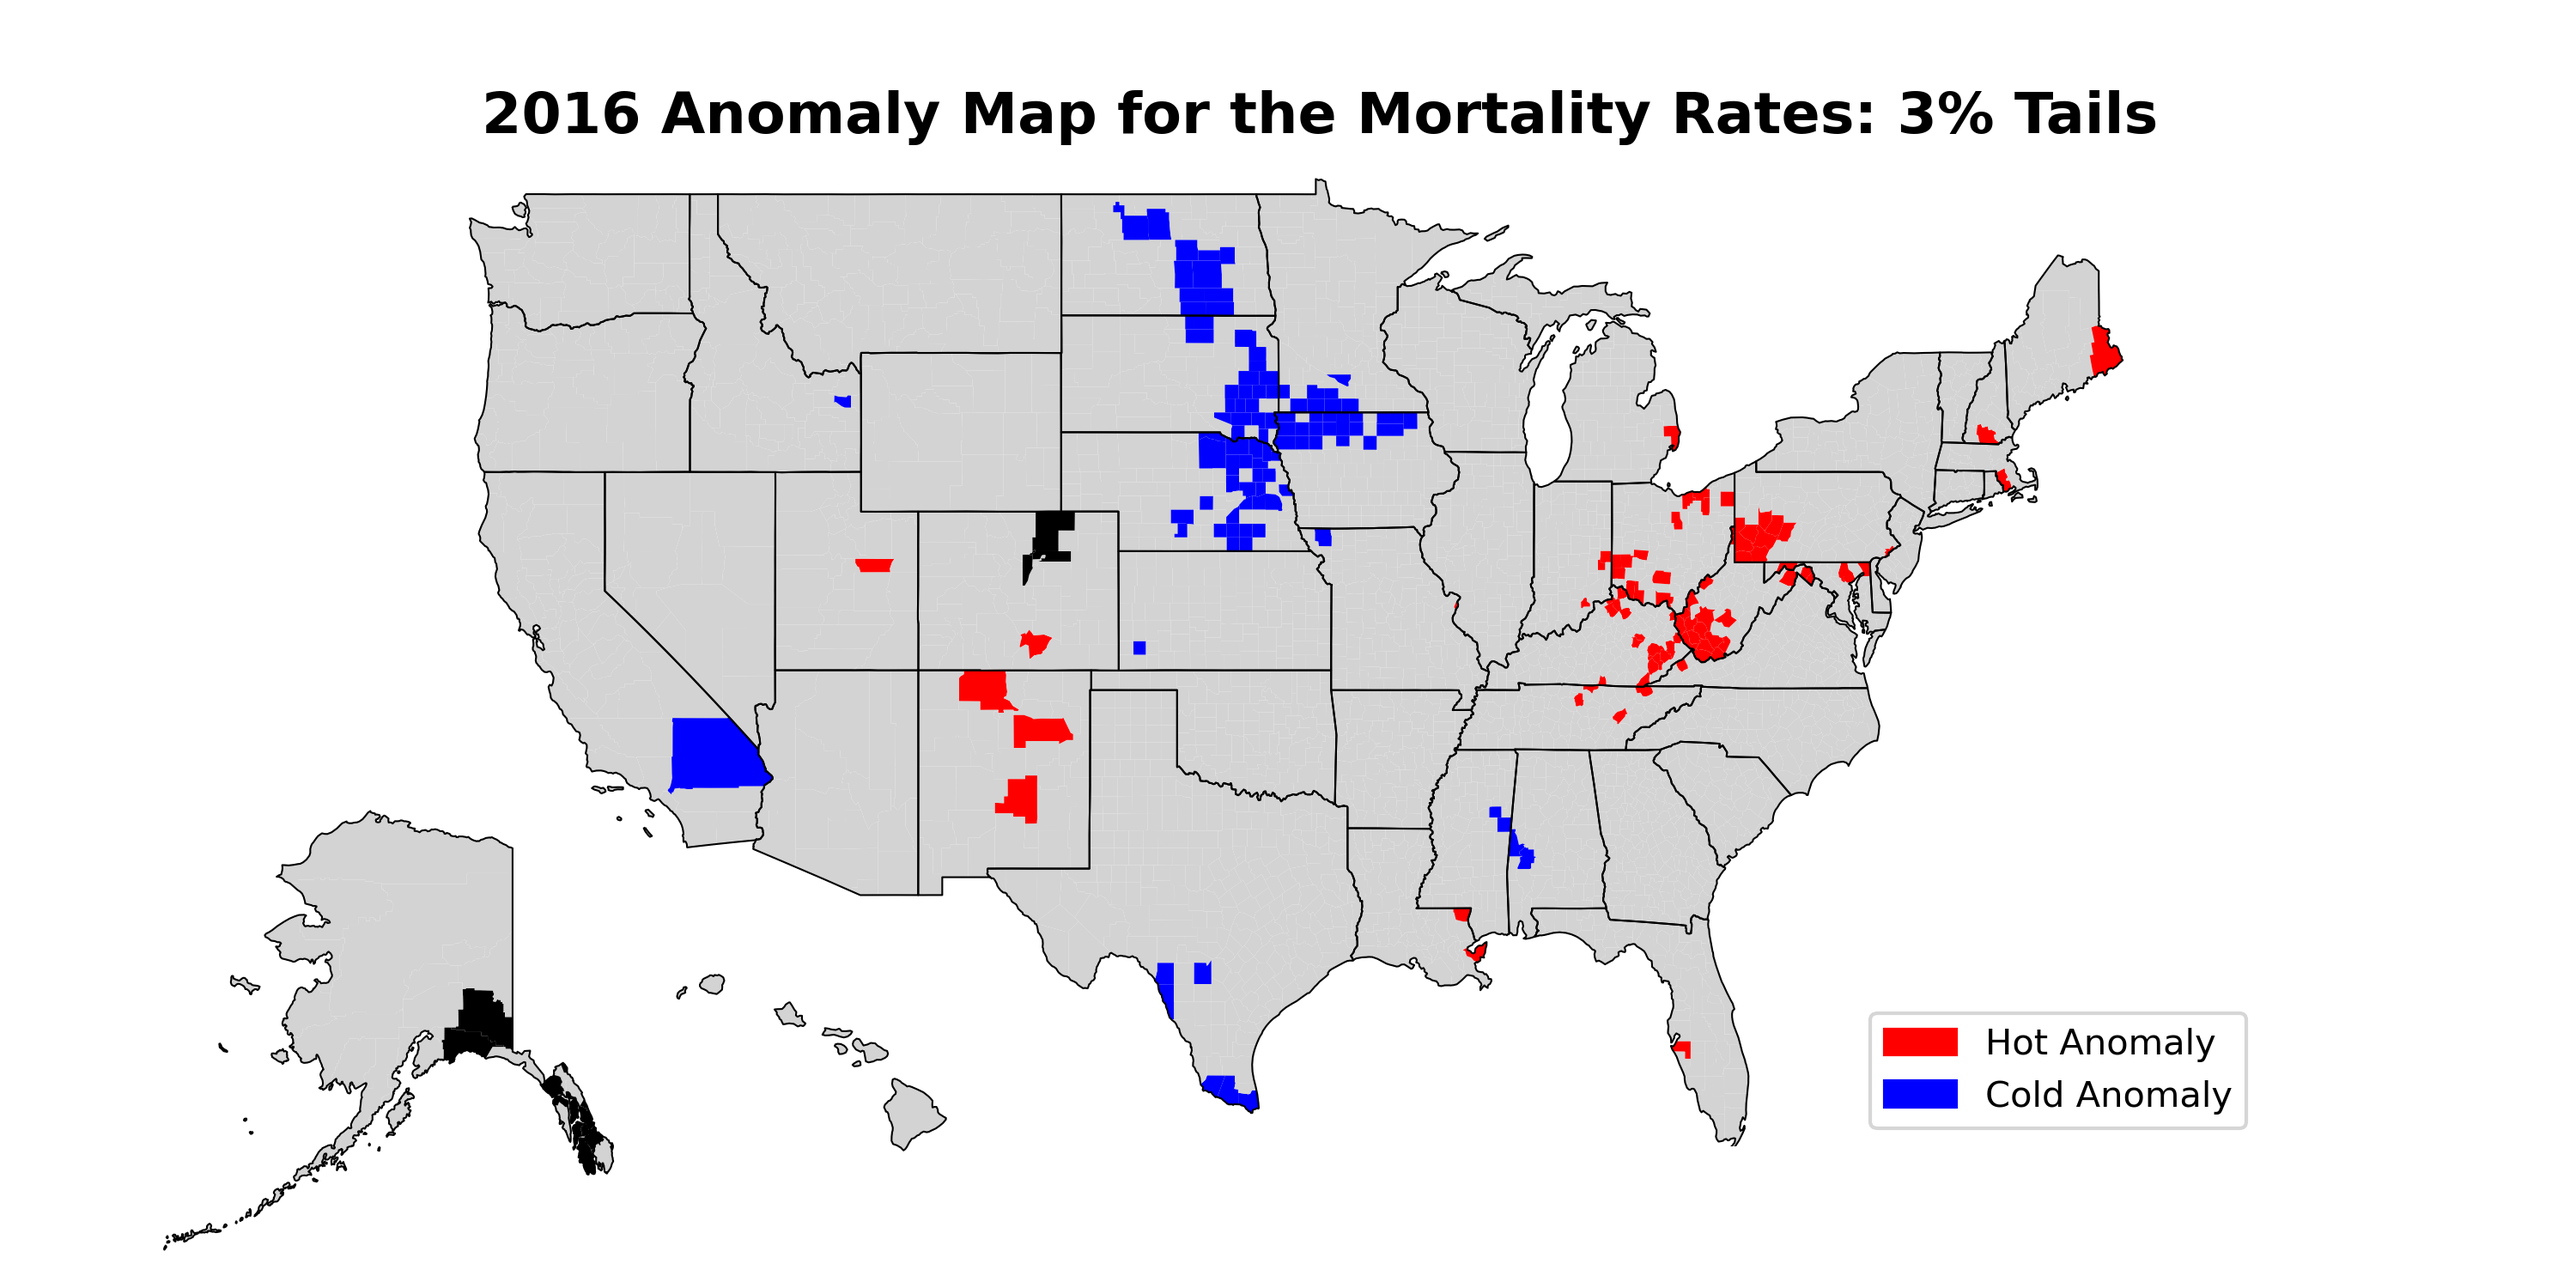
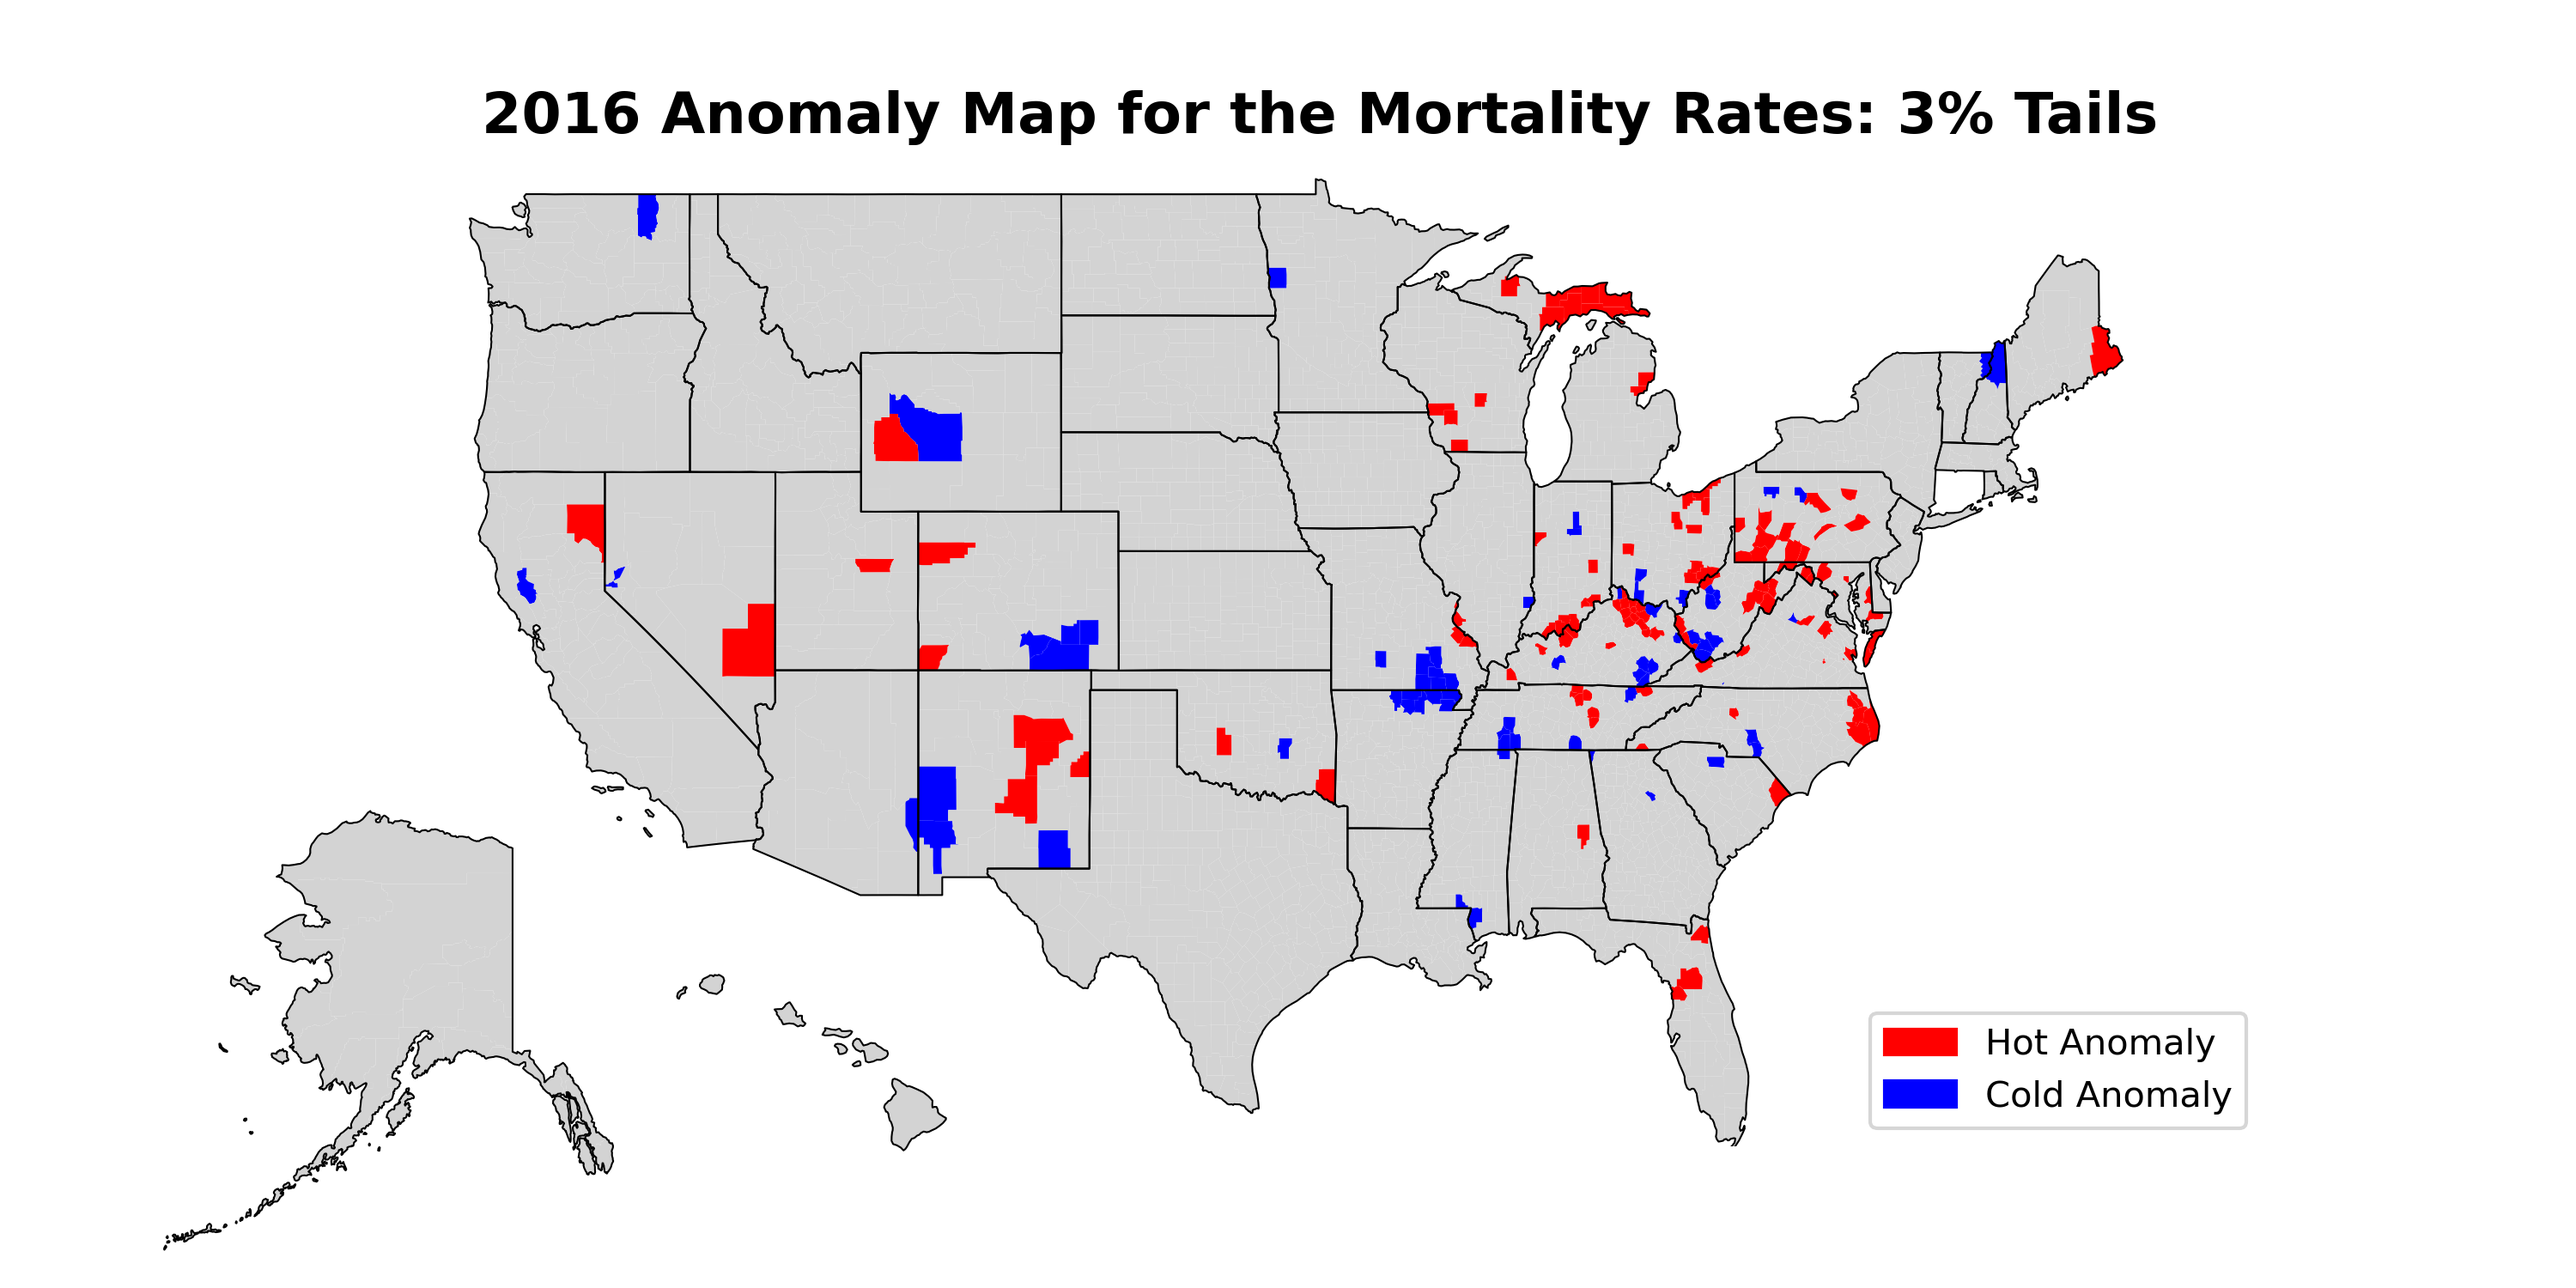
update

diff --git a/Anomalies/boxplots.py b/Anomalies/boxplots.py
@@ -6,16 +6,22 @@ import matplotlib.pyplot as plt
 import seaborn as sns
 
 DATA = ['Mortality', 
-        'Aged 17 or Younger', 'Aged 65 or Older', 'Below Poverty', 'Crowding', 'Disability', 
+        'Aged 17 or Younger', 'Aged 65 or Older', 'Below Poverty', 'Crowding', 
+        # 'Disability', 
         'Group Quarters', 'Limited English Ability', 'Minority Status', 'Mobile Homes', 
         'Multi-Unit Structures', 'No High School Diploma', 'No Vehicle', 
         'Single-Parent Household', 'Unemployed']
+TAIL = 3
 
 def construct_data_df():
     data_df = pd.DataFrame()
     for variable in DATA:
-        variable_path = f'Data/Clean/{variable}_rates.csv'
-        variable_names = ['FIPS'] + [f'{year} {variable} Rates' for year in range(2014, 2021)]
+        if variable == 'Mortality':
+            variable_path = f'Data/Mortality/Final Files/{variable}_final_rates.csv'
+            variable_names = ['FIPS'] + [f'{year} {variable} Rates' for year in range(2010, 2023)]
+        else:
+            variable_path = f'Data/SVI/Final Files/{variable}_final_rates.csv'
+            variable_names = ['FIPS'] + [f'{year} {variable} Rates' for year in range(2010, 2023)]
         variable_df = pd.read_csv(variable_path, header=0, names=variable_names)
         variable_df['FIPS'] = variable_df['FIPS'].astype(str).apply(lambda x: x.zfill(5) if len(x) < 5 else x)
         variable_df[variable_names[1:]] = variable_df[variable_names[1:]].astype(float)
@@ -29,20 +35,25 @@ def construct_data_df():
     return data_df
 
 def boxplots(data_df, year):
-    mort_rates = data_df[f'{year} Mortality Rates'].values
-    non_zero_mort_rates = mort_rates[mort_rates > 0]
-    params_lognorm = lognorm.fit(non_zero_mort_rates)
-    shape, loc, scale = params_lognorm
+    # Calculate the year-over-year difference in mortality rates BEFORE THE INSETS
+    current_mort_rates = data_df[f'{year} Mortality Rates'].values
+    previous_mort_rates = data_df[f'{year-1} Mortality Rates'].values
+    differences = current_mort_rates - previous_mort_rates
+    data_df['Differences'] = differences
+
+    # Fit a normal distribution to the differences
+    mean, std_dev = stats.norm.fit(differences)
 
     # Initialize county categories
     data_df['County Category'] = 'Other'
 
-    # Constants for thresholds
-    hot_threshold = lognorm.ppf(.99, shape, loc, scale)
-    cold_threshold = lognorm.ppf(.01, shape, loc, scale)
+    # Calculate the upper and lower thresholds for anomalies
+    tail = TAIL / 100
+    upper_threshold = stats.norm.ppf(1-tail, mean, std_dev)
+    lower_threshold = stats.norm.ppf(tail, mean, std_dev)
 
-    data_df.loc[(data_df[f'{year} Mortality Rates'] > hot_threshold), 'County Category'] = 'Hot'
-    data_df.loc[(data_df[f'{year} Mortality Rates'] < cold_threshold), 'County Category'] = 'Cold'
+    data_df.loc[(data_df[f'{year} Mortality Rates'] > upper_threshold), 'County Category'] = 'Hot'
+    data_df.loc[(data_df[f'{year} Mortality Rates'] < lower_threshold), 'County Category'] = 'Cold'
 
     # Calculate mean for 'Hot' category for each feature, excluding 'Mortality'
     hot_means = {}
@@ -56,7 +67,7 @@ def main():
     means_by_year = {}
     data_df = construct_data_df()
 
-    for year in range(2014, 2021):
+    for year in range(2011, 2023):
         hot_means = boxplots(data_df, year)
         means_by_year[year] = hot_means
 

diff --git a/Anomalies/new_anom_maps.py b/Anomalies/new_anom_maps.py
@@ -9,7 +9,7 @@ import scipy.stats as stats
 
 # Constants
 SHAPE_PATH = '2020 USA County Shapefile/Filtered Files/2020_filtered_shapefile.shp'
-MORTALITY_PATH = 'Data/Clean/Mortality_rates.csv'
+MORTALITY_PATH = 'Data/Mortality/Final Files/Mortality_final_rates.csv'
 MORTALITY_NAMES = ['FIPS'] + [f'{year} Mortality Rates' for year in range(2010, 2023)]
 TAIL = 3
 
@@ -37,7 +37,21 @@ def construct_anomaly_map(shape, year, output_map_path):
     title = f'{year} Anomaly Map for the Mortality Rates: {TAIL}% Tails'
     plt.title(title, size=16, weight='bold')
 
-        # Alaska and Hawaii insets
+    # Calculate the year-over-year difference in mortality rates BEFORE THE INSETS
+    current_mort_rates = shape[f'{year} Mortality Rates'].values
+    previous_mort_rates = shape[f'{year-1} Mortality Rates'].values
+    differences = current_mort_rates - previous_mort_rates
+    shape['Differences'] = differences
+
+    # Fit a normal distribution to the differences
+    mean, std_dev = stats.norm.fit(differences)
+
+    # Calculate the upper and lower thresholds for anomalies
+    tail = TAIL / 100
+    upper_threshold = stats.norm.ppf(1-tail, mean, std_dev)
+    lower_threshold = stats.norm.ppf(tail, mean, std_dev)
+
+    # Alaska and Hawaii insets
     alaska_ax = fig.add_axes([0, -0.5, 1.4, 1.4]) 
     hawaii_ax = fig.add_axes([0.24, 0.1, 0.15, 0.15])  
     
@@ -58,35 +72,17 @@ def construct_anomaly_map(shape, year, output_map_path):
         (shape[shape['STATEFP'] == '15'], hawaii_ax, 'hawaii') ]
 
     # Color the maps
-    # Calculate the year-over-year difference in mortality rates
-    current_mort_rates = shape[f'{year} Mortality'].values
-    previous_mort_rates = shape[f'{year-1} Mortality'].values
-    differences = current_mort_rates - previous_mort_rates
-    shape['Differences'] = differences
-
-    abs_differences = abs(differences)
-    shape['ABS Differences'] = abs_differences
-
-    # Fit a normal distribution to the differences
-    mean, std_dev = stats.norm.fit(abs_differences)
-
-    # Calculate the upper and lower thresholds for anomalies
-    tail = TAIL / 100
-    upper_threshold = stats.norm.ppf(1-tail, mean, std_dev)
-    lower_threshold = stats.norm.ppf(tail, mean, std_dev)
 
     for inset, ax, _ in shapes:
         for _, row in inset.iterrows():
             county = row['FIPS']
-            abs_diff = row['ABS Differences']
             diff = row['Differences']
             rate = row[f'{year} Mortality Rates']
 
-            if abs_diff > upper_threshold:
-                if diff > 0:
-                    color = 'red'
-                elif diff < 0:
-                    color = 'blue'
+            if diff > upper_threshold:
+                color = 'red'
+            elif diff < lower_threshold:
+                color = 'blue'
             else:
                 color = 'lightgrey'
         
